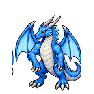
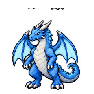
Restart dragon claw sequence from original movement sprite reference

diff --git a/design/enemies/dragon_frost/attack_claw/PROMPT.md b/design/enemies/dragon_frost/attack_claw/PROMPT.md
@@ -1,1 +1,1 @@
-Built-in image_gen. Base: ../attack/dragon_frost_1.png. Generate entire coherent ten-frame5x2 transparent sprite sheet of same blue frost dragon, small blue eyes and original detailed pixel-art. Frame1 normal,2 raising,3 raising,4 highest raising,5 downstroke begins,6 downstroke across chest,7 lowest downstroke,8 return early,9 return middle,10 return late near normal. Both forearms visible throughout, including frame7 continuous shoulder-elbow-wrist-claws. Whole character regenerated to match original reference face and proportions; Fresh whole-body overhead claw sequence. Active SCREEN-LEFT arm lifts clearly above head at4, descends across chest5-6 and belly7, distinct return8-10. Idle SCREEN-RIGHT arm visible throughout. No reused full-body poses or rotated limb patches; grounded hindfeet, stable wings and tail. No fire, weapons, slash effects or pasted body parts. Export ten94x94 transparent PNGs in numeric order. Correction: planted feet baseline y91 in every frame, stable hips and head, original narrow blue-eyed face, frame10 is distinct late recovery, frame1 completes return. Preview frame delays(ms): 180,120,120,140,80,80,80,120,120,120.
+Built-in image_gen. Base: ../move/dragon_frost_1.png. Generate entire coherent ten-frame5x2 transparent sprite sheet of same blue frost dragon, small blue eyes and original detailed pixel-art. Frame1 normal,2 raising,3 raising,4 highest raising,5 downstroke begins,6 downstroke across chest,7 lowest downstroke,8 return early,9 return middle,10 return late near normal. Both forearms visible throughout, including frame7 continuous shoulder-elbow-wrist-claws. Whole character regenerated to match original reference face and proportions; Fresh generation only from move/dragon_frost_1.png. Same SCREEN-RIGHT forearm throughout. Frame5 uses full-body frame3 pose again on descent to avoid arm swap in generated frame5. No pasted face or transformed limb. Frame6 chestlevel,7 low followthrough,8-10 recover.; grounded hindfeet, stable wings and tail. No fire, weapons, slash effects or pasted body parts. Export ten94x94 transparent PNGs in numeric order. Correction: planted feet baseline y91 in every frame, stable hips and head, original narrow blue-eyed face, frame10 is distinct late recovery, frame1 completes return. Preview frame delays(ms): 180,120,120,140,80,80,80,120,120,120.
